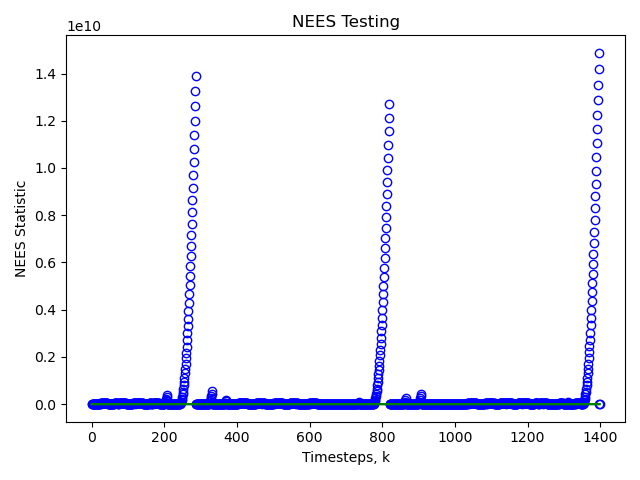
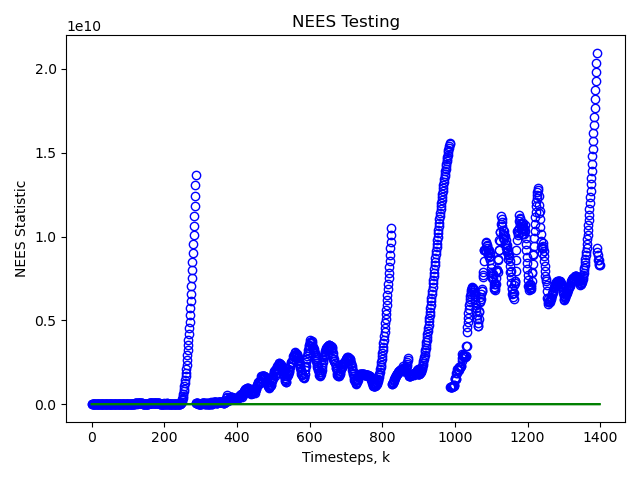
Tune LKF with Qtest and Rtest. Go nuts.

diff --git a/ASEN_5044_final_aj_fatah.py b/ASEN_5044_final_aj_fatah.py
@@ -8,6 +8,7 @@ from scipy.integrate import solve_ivp
 from scipy.io import loadmat
 from scipy.stats import multivariate_normal as mvn
 from nees_nis import *
+from time import time
 
 # NOMINAL/NONLINEAR MODELS ----------------------------------------------------------------
 
@@ -76,7 +77,6 @@ def dyn_sys(t, state, Qtrue=np.array([])):
         w2 = 0
 
     x, v_x, y, v_y = state
-    print('ya!')
     # Compute the derivatives
     dx_dt = v_x
     ddx_dt = ((-mu * x) / (x**2 + y**2)**(3/2)) + w1
@@ -851,7 +851,7 @@ if __name__ == "__main__":
     
     # Monte-Carlo parameters
     np.random.seed(100)  # Random Set Seed
-    num_mc_runs = 1     # Number of Monte-Carlo Runs
+    num_mc_runs = 20     # Number of Monte-Carlo Runs
     alpha = 0.05         # Confidence
     
     T_tot = round(np.sqrt((4*(np.pi**2)*(r0**3))/mu))   # orbital period, s
@@ -884,17 +884,21 @@ if __name__ == "__main__":
     tvec  =(pd.read_csv(os.path.join(input_files_dir, 'tvec.csv'), header=None)).values.tolist()      # time vector
     measLabels = (pd.read_csv(os.path.join(input_files_dir, 'measLabels.csv'), header=None)).values.tolist()    # labels for measurements dataframe
     ydata = loadmat(os.path.join(input_files_dir,'orbitdeterm_finalproj_KFdata.mat'))['ydata'][0]
-    Qtest = np.array([[1e-3, 0], [0, 1e-6]])
+    Qtest = np.array([[1e-5, 0], [0, 1e-8]])
+    Rtest = np.array([[1e-4, 0, 0], [0, 1, 0], [0, 0, 1e-4]])
     print(Qtest)
+    start = time()
     ydata_sim = monte_carlo_measurements_tmt(x0,Qtest,Rtrue,T,plot=False)
     NEES_array = []
     NIS_array = []
-
+    print(time() - start)
+    
     for i in range(num_mc_runs):
         print(i)
         res = LKF(x0, dT, T, Qtest, Rtrue, ydata_sim)
         NEES_array.append(res[2])
         NIS_array.append(res[3])
+        print(time() - start)
         
     NIS_Chi2_Test(np.asarray(NIS_array).T, num_meas, num_mc_runs, alpha)    
-    #NEES_Chi2_Test(np.asarray(NEES_array).T, num_states, num_mc_runs, alpha)
+    NEES_Chi2_Test(np.asarray(NEES_array).T, num_states, num_mc_runs, alpha)

diff --git a/nees_nis.py b/nees_nis.py
@@ -54,7 +54,7 @@ def NEES_Chi2_Test(NEES_array, num_states, num_runs, alpha):
     NEES_exp = num_states * np.ones(np.shape(NEES_avg))
     r1 = chi2.ppf(alpha/2, df=num_runs*num_states)/num_runs
     r2 = chi2.ppf(1 - (alpha/2), df=num_runs*num_states)/num_runs
-    res = stats.chisquare(NEES_avg, NEES_exp)
+    #res = stats.chisquare(NEES_avg, NEES_exp)
     
     timesteps = np.arange(0,k)
     ax = plt.subplot()
@@ -69,7 +69,7 @@ def NEES_Chi2_Test(NEES_array, num_states, num_runs, alpha):
     plt.savefig("NEES Testing.png")
     plt.show()
     
-    return NEES_avg, res
+    return NEES_avg#, res
     
 def NIS(y_real, y_sim, S_k):
     
